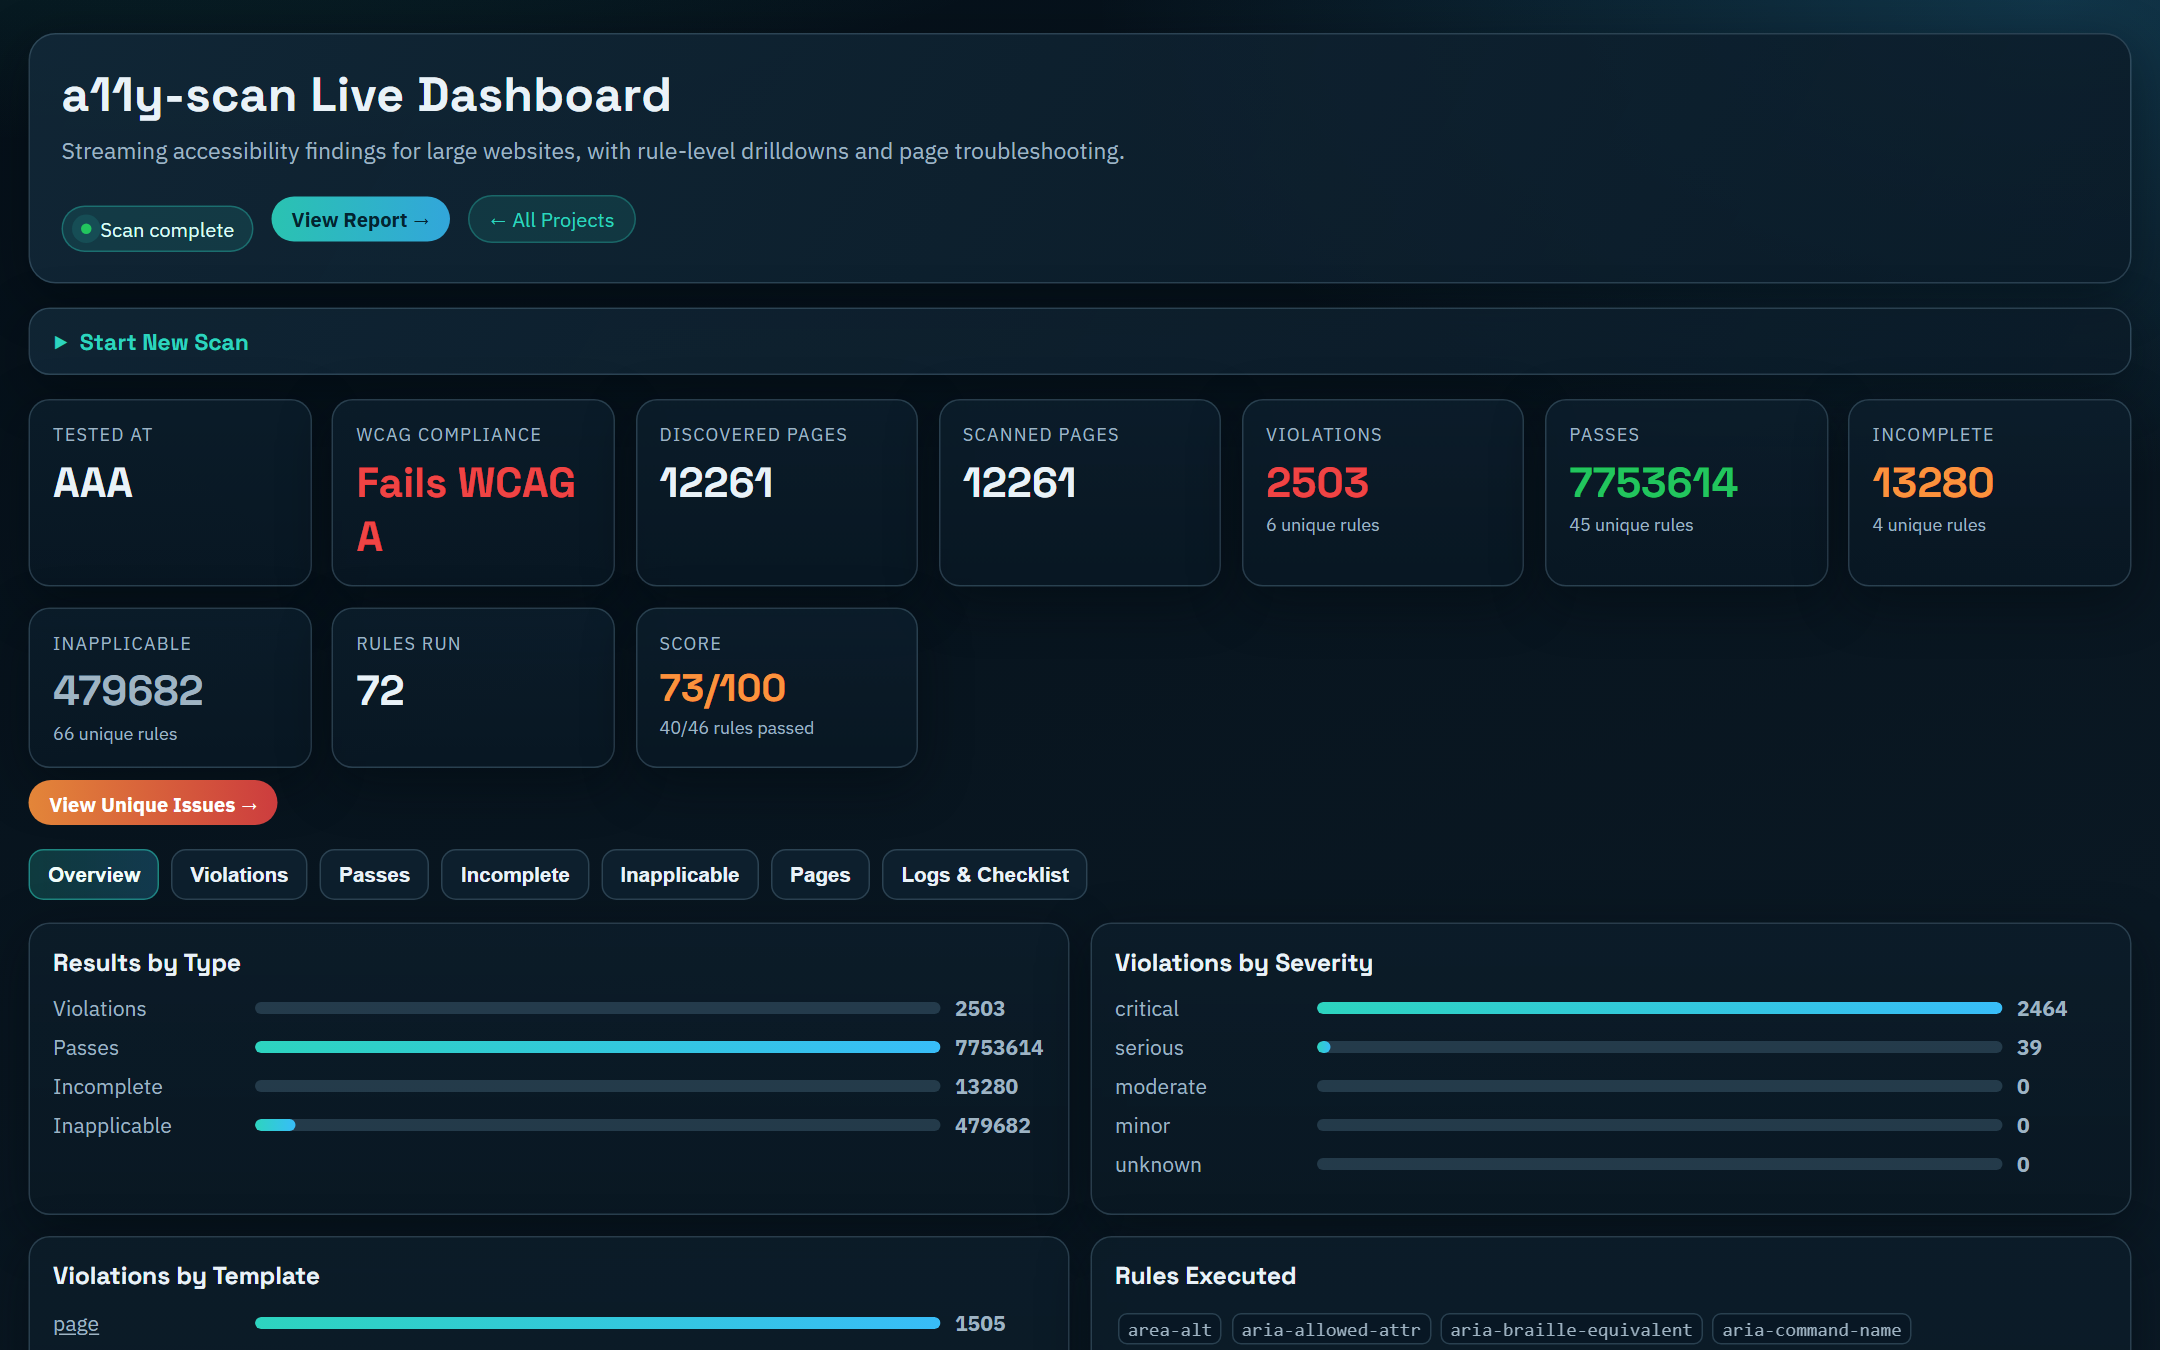
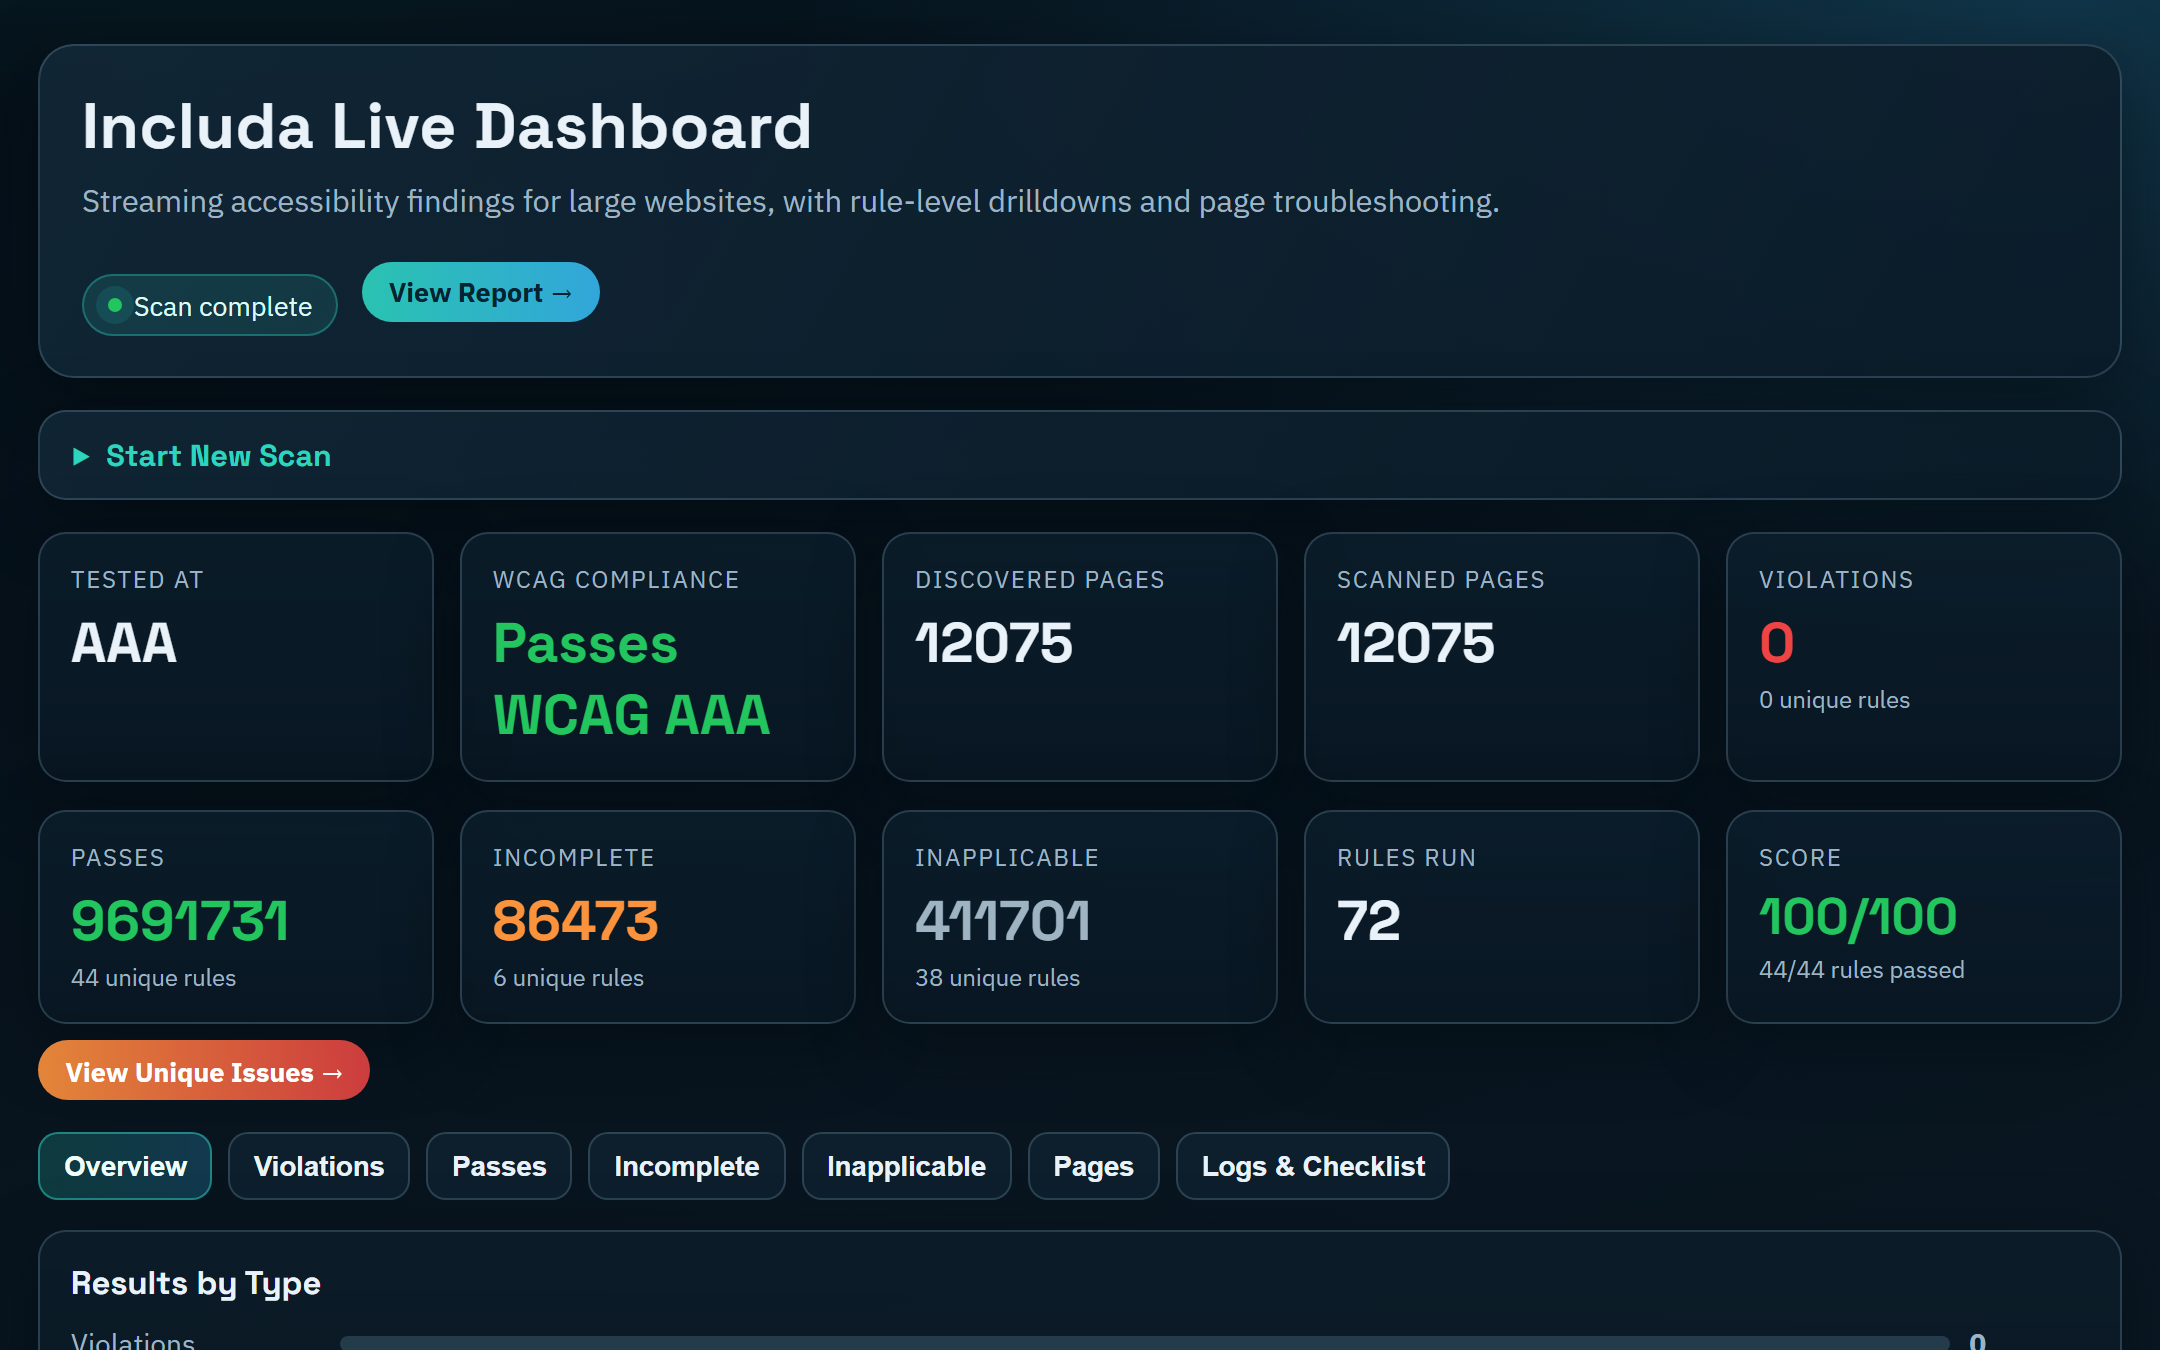
Update site hero + report screenshots to Scenery en Zo's perfect score
Regenerate live-dashboard.png and static-report.png from the latest scenery-en-zo.myshopify.com scan — 100/100, 0 violations across 12,075 pages, passes WCAG AAA — replacing the earlier failing-scan captures, and update their alt text to match.

diff --git a/site/index.html b/site/index.html
@@ -686,7 +686,7 @@
           <img
             class="browser-shot"
             src="images/live-dashboard.png"
-            alt="Includa live dashboard showing a completed scan of scenery-en-zo.myshopify.com — Tested at AAA, WCAG Compliance: Fails WCAG A, Score 73 of 100, 12,261 pages scanned, 2,503 violations including 2,464 critical and 39 serious."
+            alt="Includa live dashboard showing a completed scan of scenery-en-zo.myshopify.com — Tested at AAA, WCAG Compliance: Passes WCAG AAA, Score 100 of 100, 12,075 pages scanned, 0 violations."
             width="2160"
             height="1350"
           />
@@ -837,7 +837,7 @@
               <img
                 class="browser-shot"
                 src="images/static-report.png"
-                alt="Accessibility Report for scenery-en-zo.myshopify.com. Score 73 out of 100. Tested at WCAG AAA. Compliance: Fails WCAG A with 2,503 Level A violations. Summary stats show 12,261 pages scanned, 2,503 total violations, 2,464 critical, 39 serious, 9 unique deduplicated issues."
+                alt="Accessibility Report for scenery-en-zo.myshopify.com. Score 100 out of 100. Tested at WCAG AAA. Compliance: Passes WCAG AAA with 0 violations. Summary stats show 12,075 pages scanned, 0 total violations, 0 critical, 0 serious, 0 unique deduplicated issues."
                 loading="lazy"
                 width="2160"
                 height="1350"
